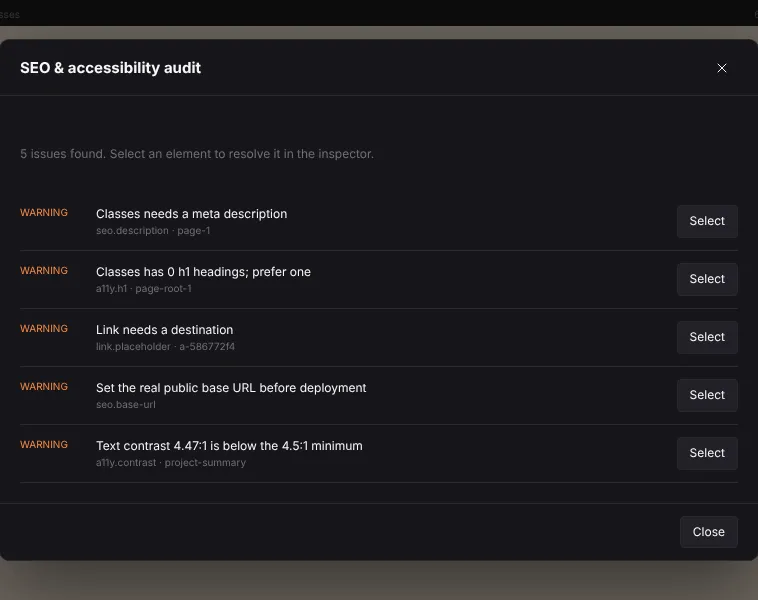
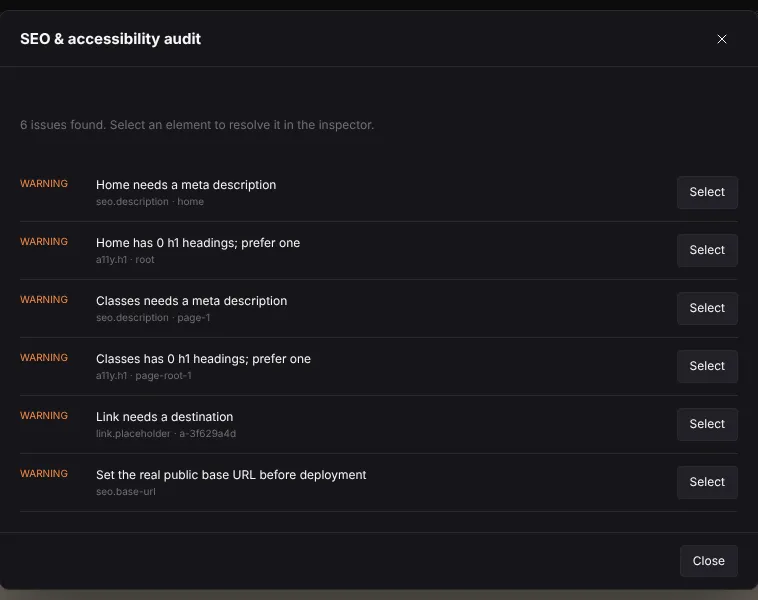
docs: a new site from Blank opens one empty Home page, in Your first site with its two pictures retaken, and in the manual

diff --git a/docs/guide/01-first-site.md b/docs/guide/01-first-site.md
@@ -14,9 +14,9 @@ It takes about fifteen minutes. You need FormWeb open in its window or in your b
 
 ![The New website dialog with Mill Lane Pottery typed in Site name, Start from set to Blank, and the Close and Create site buttons](images/first-site-new-site.webp)
 
-The site opens with one page, Home, which already holds a small sample design (a studio called "aster / studio"). You can delete or change it later. In this walkthrough you leave it alone and build on a new, empty page.
+The site opens with one empty page, Home: its only layer is the page itself. In this walkthrough you leave it for later and build on a new page.
 
-![The editor after Create site: the Home page shows the sample aster / studio design on the canvas, with its layers listed on the left](images/first-site-sample-home.webp)
+![The editor after Create site: the Home page is empty on the canvas, and the Layers list on the left holds only Page](images/first-site-sample-home.webp)
 
 ## 2. Add a page
 
@@ -122,9 +122,9 @@ On the phone the 64 px padding leaves little room for the text. [The right panel
 
 1. Click **Audit** at the right end of the second row of the top bar. The SEO & accessibility audit lists what it found on the whole site.
 
-![The SEO & accessibility audit dialog: 5 issues found. Classes needs a meta description; Classes has 0 h1 headings, prefer one; Link needs a destination; Set the real public base URL before deployment; Text contrast 4.47:1 is below the 4.5:1 minimum. Each row has a Select button](images/first-site-audit.webp)
+![The SEO & accessibility audit dialog: 6 issues found. Home needs a meta description; Home has 0 h1 headings, prefer one; Classes needs a meta description; Classes has 0 h1 headings, prefer one; Link needs a destination; Set the real public base URL before deployment. Each row has a Select button](images/first-site-audit.webp)
 
-The last issue is on the sample Home page; the first three are on your Classes page.
+The first two issues are on the empty Home page; the next three are on your Classes page.
 
 2. Click **Select** next to "Classes needs a meta description". The dialog closes, the **Page** tab opens, and the **Description** field is outlined with the cursor in it. The status line says "Selected Classes: Classes needs a meta description".
 
@@ -132,9 +132,9 @@ The last issue is on the sample Home page; the first three are on your Classes p
 
 3. Type a sentence that describes the page, for example `Beginner pottery classes on Tuesday evenings at Mill Lane: six weeks at the wheel, clay and firings included.`
 4. Press Tab to keep it.
-5. Click **Audit** again. It now says 4 issues found.
+5. Click **Audit** again. It now says 5 issues found.
 
-To fix the others later: select the heading and set **HTML tag** (Design tab, Element section) to `h1`; give the button somewhere to go with **Link URL** on the Content tab (search `href`); and see [Audit](07-audit.md) for the base URL.
+To fix the others later: select the heading and set **HTML tag** (Design tab, Element section) to `h1`; give Home a heading and a description the same way when you build it; give the button somewhere to go with **Link URL** on the Content tab (search `href`); and see [Audit](07-audit.md) for the base URL.
 
 ## 11. Export the site
 

diff --git a/docs/MANUAL.md b/docs/MANUAL.md
@@ -21,7 +21,7 @@ The default data folder is `backend/data`. Configure `FORMWEB_DATA_DIR` in `back
 
 ## Home and the demos
 
-Home (File > Home, or the formweb mark in the top bar) opens over the editor. Its Start page shows recent sites, the Demos and the New site tiles; Recent and Projects list what you opened and saved.
+Home (File > Home, or the formweb mark in the top bar) opens over the editor. Its Start page shows recent sites, the Demos and the New site tiles; Recent and Projects list what you opened and saved. A new site started from Blank (Home's Blank site, or File > New site... with Start from set to Blank) has one empty Home page; the sample aster / studio page appears only when FormWeb first starts with no site to restore.
 
 Eight finished demo sites come with the app: Lowlight (a studio site made from library sections, with scroll scenes and animated components), Looking Back (a photo essay told in pinned scroll scenes, with a filterable gallery and a lightbox), Harbour Ferries (a service site with a fare calculator, CMS route pages, site search and redirects), and five whole-site starters to begin a real site from:
 
